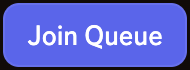
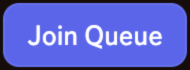
fixes

diff --git a/discord_queue_clicker.py b/discord_queue_clicker.py
@@ -8,7 +8,6 @@ import cv2
 import mss
 import numpy as np
 import pyautogui
-import pytesseract
 
 logging.basicConfig(
     level=logging.INFO,
@@ -16,209 +15,87 @@ logging.basicConfig(
     handlers=[logging.StreamHandler()],
 )
 
-_OCR_CONFIG = "--psm 7 --oem 3 -c tessedit_char_whitelist=abcdefghijklmnopqrstuvwxyz "
+TEMPLATE_PATH = "button_template.png"
+MATCH_THRESHOLD = 0.75
 
 
-class DiscordQueueClicker:
-    def __init__(self, check_interval=0.5, confidence=0.7, debug=False):
-        self.check_interval = check_interval
-        self.confidence = confidence
-        self.running = False
-        self.debug = debug
-        self.caffeinate_process = None
+def load_template():
+    t = cv2.imread(TEMPLATE_PATH)
+    if t is None:
+        raise FileNotFoundError(f"template not found: {TEMPLATE_PATH}")
+    return t
 
-        self.lower_blue = np.array([110, 150, 150])
-        self.upper_blue = np.array([130, 255, 255])
 
-        pyautogui.PAUSE = 0.0
-        pyautogui.FAILSAFE = True
-
-        screen_size = pyautogui.size()
-        self._sct = mss.mss()
-        self._monitor = self._sct.monitors[1]
-        self.scale_factor = self._monitor["width"] / screen_size.width
-
-        logging.info("discord queue clicker initialized")
-        logging.info(f"check interval: {check_interval}s, confidence: {confidence}")
-        logging.info(f"screen size: {screen_size}")
-        logging.info(f"scale factor: {self.scale_factor}")
-        logging.info(f"debug mode: {debug}")
-
-    def prevent_sleep(self):
-        try:
-            self.caffeinate_process = subprocess.Popen(["caffeinate", "-d"])
-            logging.info("sleep prevention enabled (caffeinate started)")
-        except Exception as e:
-            logging.warning(f"could not start sleep prevention: {e}")
-
-    def allow_sleep(self):
-        if self.caffeinate_process:
-            self.caffeinate_process.terminate()
-            self.caffeinate_process = None
-            logging.info("sleep prevention disabled (caffeinate stopped)")
-
-    def detect_blue_button(self, screenshot):
-        hsv = cv2.cvtColor(screenshot, cv2.COLOR_BGR2HSV)
-        mask = cv2.inRange(hsv, self.lower_blue, self.upper_blue)
-        contours, _ = cv2.findContours(mask, cv2.RETR_EXTERNAL, cv2.CHAIN_APPROX_SIMPLE)
-
-        buttons = []
-        screen_height = screenshot.shape[0]
-        screen_width = screenshot.shape[1]
-
-        for contour in contours:
-            area = cv2.contourArea(contour)
-            if 2000 < area < 50000:
-                x, y, w, h = cv2.boundingRect(contour)
-                aspect_ratio = w / h if h > 0 else 0
-
-                if y < screen_height * 0.2:
-                    continue
-
-                if y > screen_height * 0.9:
-                    continue
-
-                if 2.0 < aspect_ratio < 8.0 and h > 25 and w > 100:
-                    buttons.append((x, y, w, h))
-
-        return buttons
-
-    def check_for_text_near_button(self, screenshot, button_region, keywords):
-        try:
-            x, y, w, h = button_region
-            margin = 5
-            x1 = max(0, x - margin)
-            y1 = max(0, y - margin)
-            x2 = min(screenshot.shape[1], x + w + margin)
-            y2 = min(screenshot.shape[0], y + h + margin)
-
-            region = screenshot[y1:y2, x1:x2]
-
-            if self.debug:
-                cv2.imwrite("debug_ocr_region.png", region)
-                logging.info(f"ocr region saved: {x1},{y1} to {x2},{y2}")
-
-            gray = cv2.cvtColor(region, cv2.COLOR_BGR2GRAY)
-            _, thresh = cv2.threshold(gray, 150, 255, cv2.THRESH_BINARY)
-            text = pytesseract.image_to_string(thresh, config=_OCR_CONFIG).lower()
-
-            logging.debug(f"ocr detected text: '{text.strip()}'")
-
-            for keyword in keywords:
-                if keyword.lower() in text:
-                    logging.info(f"keyword '{keyword}' matched!")
-                    return True
-
-        except Exception as e:
-            logging.debug(f"ocr error: {e}")
-
-        return False
-
-    def click_button(self, x, y, w, h):
-        center_x = int((x + w // 2) * self.scale_factor)
-        center_y = int((y + h // 2) * self.scale_factor)
-
-        logging.info(f"clicking button at ({center_x}, {center_y})")
-        pyautogui.click(center_x, center_y)
-        logging.info("button clicked!")
-
-    def take_screenshot(self):
-        frame = self._sct.grab(self._monitor)
-        screenshot_bgr = cv2.cvtColor(np.array(frame), cv2.COLOR_BGRA2BGR)
-        return screenshot_bgr
-
-    def start_monitoring(self, keywords=None, use_ocr=True):
-        if keywords is None:
-            keywords = ["join queue", "queue", "join"]
-
-        self.running = True
-        self.prevent_sleep()
-        logging.info("starting to monitor for queue button...")
-        logging.info(f"looking for keywords: {keywords}")
-        logging.info("press ctrl+c to stop")
-
-        try:
-            while self.running:
-                screenshot = self.take_screenshot()
-                buttons = self.detect_blue_button(screenshot)
-
-                if buttons:
-                    logging.debug(f"found {len(buttons)} potential button(s)")
-
-                    if self.debug:
-                        debug_img = screenshot.copy()
-                        for button in buttons:
-                            x, y, w, h = button
-                            cv2.rectangle(
-                                debug_img, (x, y), (x + w, y + h), (0, 255, 0), 2
-                            )
-                            cv2.circle(
-                                debug_img, (x + w // 2, y + h // 2), 5, (0, 0, 255), -1
-                            )
-                        cv2.imwrite("debug_detection.png", debug_img)
-                        logging.info("debug image saved to debug_detection.png")
-
-                    for button in buttons:
-                        x, y, w, h = button
-
-                        if use_ocr:
-                            if self.check_for_text_near_button(
-                                screenshot, button, keywords
-                            ):
-                                self.click_button(x, y, w, h)
-                                logging.info("queue button found and clicked!")
-                                return True
-                        else:
-                            self.click_button(x, y, w, h)
-                            logging.info("blue button clicked (ocr disabled)")
-                            return True
-
-                time.sleep(self.check_interval)
-
-        except KeyboardInterrupt:
-            logging.info("\nmonitoring stopped by user")
-            self.running = False
-        except Exception as e:
-            logging.error(f"error during monitoring: {e}")
-            raise
-        finally:
-            self.allow_sleep()
-
-    def stop(self):
-        self.running = False
-        logging.info("monitoring stopped")
+def find_button(screenshot, template):
+    result = cv2.matchTemplate(screenshot, template, cv2.TM_CCOEFF_NORMED)
+    _, max_val, _, max_loc = cv2.minMaxLoc(result)
+    if max_val >= MATCH_THRESHOLD:
+        th, tw = template.shape[:2]
+        cx = max_loc[0] + tw // 2
+        cy = max_loc[1] + th // 2
+        return cx, cy, max_val
+    return None
 
 
 def main():
     print("=" * 60)
     print("discord queue auto-clicker")
     print("=" * 60)
-    print()
-    print("instructions:")
-    print("1. open discord and navigate to the desired channel")
-    print("2. make sure the channel is visible on screen")
-    print("3. run this script")
-    print("4. the script will monitor for a blue 'join queue' button")
-    print("5. when found, it will automatically click it")
-    print()
-    print("configuration:")
-    print("- check interval: 0.1 seconds (faster detection)")
-    print("- ocr verification: enabled (more accurate)")
-    print()
-    print("press ctrl+c to stop at any time")
-    print("=" * 60)
-    print()
-
-    print("starting in 5 seconds... position your discord window now!")
+    print("starting in 5 seconds... switch to discord now!")
     for i in range(5, 0, -1):
         print(f"{i}...")
         time.sleep(1)
     print()
 
-    clicker = DiscordQueueClicker(check_interval=0.1, confidence=0.7, debug=True)
-    clicker.start_monitoring(
-        keywords=["join queue", "queue", "join", "enter queue"], use_ocr=True
-    )
+    template = load_template()
+    logging.info(f"template loaded: {template.shape[1]}x{template.shape[0]}px")
+
+    sct = mss.mss()
+    monitor = sct.monitors[1]
+    screen_size = pyautogui.size()
+    scale = monitor["width"] / screen_size.width
+    logging.info(f"screen {screen_size.width}x{screen_size.height}, scale {scale}")
+
+    pyautogui.PAUSE = 0.0
+    pyautogui.FAILSAFE = True
+
+    caffeinate = subprocess.Popen(["caffeinate", "-d"])
+    logging.info("monitoring for join queue button... ctrl+c to stop")
+
+    last_log = 0
+    try:
+        while True:
+            frame = sct.grab(monitor)
+            screenshot = cv2.cvtColor(np.array(frame), cv2.COLOR_BGRA2BGR)
+
+            match = find_button(screenshot, template)
+
+            now = time.time()
+            if now - last_log > 5:
+                if match:
+                    logging.info(f"button visible at ({match[0]}, {match[1]}) confidence={match[2]:.2f}")
+                else:
+                    logging.info("scanning... button not found")
+                last_log = now
+
+            if match:
+                cx, cy, conf = match
+                sx = int(cx * scale)
+                sy = int(cy * scale)
+                logging.info(f"clicking join queue at ({sx}, {sy}) conf={conf:.2f}")
+                subprocess.run(["osascript", "-e", 'tell application "Discord" to activate'], capture_output=True)
+                time.sleep(0.1)
+                pyautogui.moveTo(sx, sy, duration=0.05)
+                pyautogui.click()
+                logging.info("clicked!")
+                time.sleep(2)
+
+            time.sleep(0.1)
+
+    except KeyboardInterrupt:
+        logging.info("stopped")
+    finally:
+        caffeinate.terminate()
 
 
 if __name__ == "__main__":
